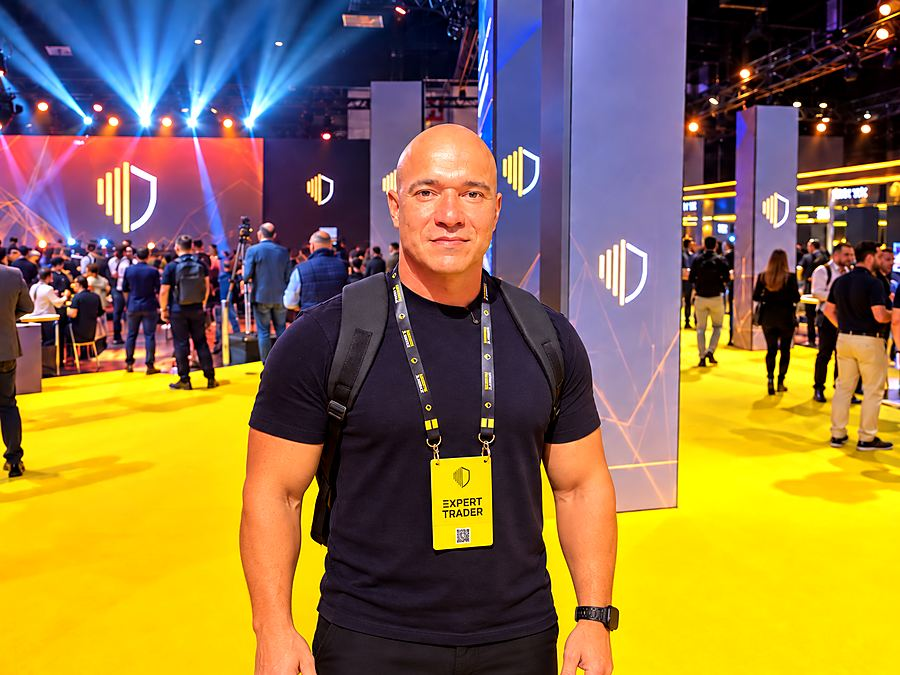
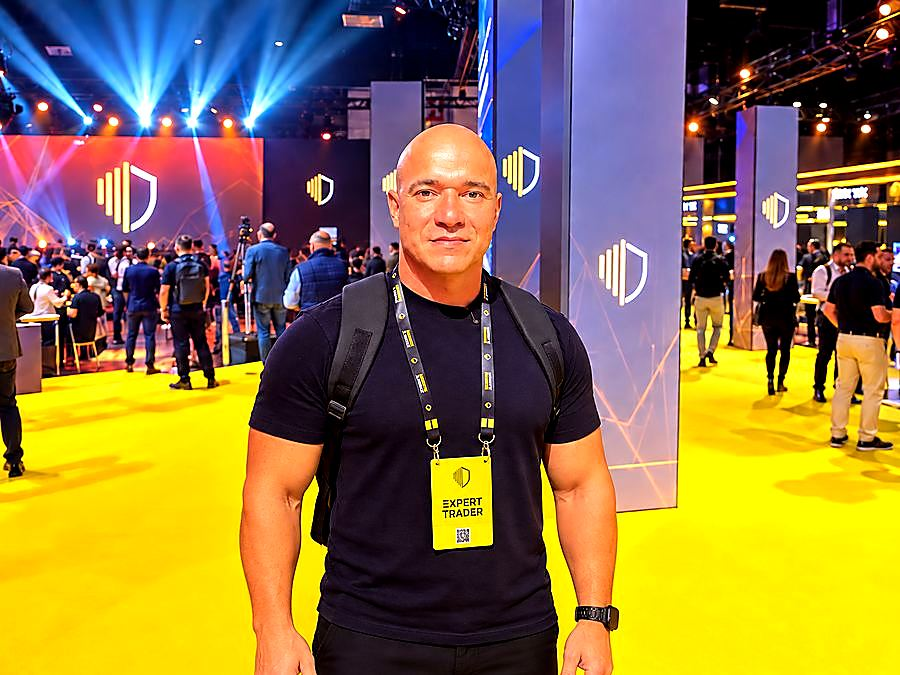
Repoe a foto da secao Sobre e impede que suma de novo
O arquivo site/fotos/sobre.png sumiu do disco. Como essa pasta nao e
versionada, o build seguinte caiu no placeholder dourado e foi publicado
assim. Reposta a partir de site/public/fotos/sobre.jpg, que estava commitada.

Para nao repetir: o build agora recusa gerar sem a foto, em vez de avisar
no fim e seguir. A valvula ACEITO_PLACEHOLDER=1 continua, para quem quiser
mesmo publicar sem ela. A revisao semanal passa a conferir que a pagina no
ar referencia a foto de verdade, e nao um placeholder embutido.

diff --git a/site/public/index.html b/site/public/index.html
@@ -598,7 +598,7 @@
   <section id="sobre">
     <div class="wrap about">
       <div class="about-photo rv">
[1 lines of base64/hex data omitted]
+        <div class="frame"><img src="/fotos/sobre.jpg" alt="Ramon Tibúrcio no evento Expert Trader XP." width="900" height="675" loading="lazy"></div>
         <div class="stamp"><small>Onde o título foi conquistado</small>Expert Trader XP · Arena</div>
       </div>
       <div class="about-copy rv">

diff --git a/site/build.py b/site/build.py
@@ -6,7 +6,7 @@ Fotos esperadas em site/fotos/ (qualquer um destes nomes, jpg/jpeg/png):
   b3.*     -> alternativa: foto no estande da B3      -> {{FOTO_B3}}
   hero.*   -> ultimo recurso, se as duas faltarem
   hl-resultados.*, hl-analises.*, hl-fechamento.* -> capas dos destaques do Instagram (opcionais)
-Se uma foto não existir, entra um placeholder dourado no lugar.
+Se a foto da seção Sobre não existir, o build para em vez de publicar um placeholder.
 """
 import re, base64, io, glob, os, sys
 from PIL import Image, ImageEnhance, ImageOps, ImageFilter
@@ -79,6 +79,17 @@ def main():
         alt_b3 = "Ramon Tibúrcio no evento Expert Trader XP."
 
     # (token, origem, nome publico, largura, proporcao, foco vertical, qualidade, rotulo)
+    # trava: sem a foto original o build publicaria o retangulo dourado no lugar do
+    # rosto do Ramon, e isso ja foi ao ar uma vez sem ninguem ver. A pasta site/fotos/
+    # nao e versionada, entao e justamente ela que some. Melhor recusar o build.
+    if not foto_sobre and not os.environ.get("ACEITO_PLACEHOLDER"):
+        raise SystemExit(
+            "ERRO: nao achei a foto da secao Sobre em site/fotos/ (sobre.*, b3.* ou hero.*)." + chr(10) +
+            "       Sem ela o site sai com o espaco reservado dourado no lugar da foto." + chr(10) +
+            "       Reponha o arquivo e rode de novo. Se for mesmo para publicar sem foto," + chr(10) +
+            "       rode com ACEITO_PLACEHOLDER=1."
+        )
+
     specs = [
         ("{{FOTO_B3}}", foto_sobre, "sobre.jpg", 900, (4, 3), 0.30, 78, "FOTO: EXPERT TRADER XP"),
     ]
@@ -154,8 +165,6 @@ def main():
     pub = os.path.join(pub_dir, "index.html")
     open(pub, "w", encoding="utf-8").write(full)
     print(f"Gerado: {pub} ({os.path.getsize(pub)//1024} KB)  [site completo para publicar]")
-    if not foto_sobre:
-        print("\nAVISO: nenhuma foto em site/fotos/ (sobre.*, b3.* ou hero.*). Placeholder usado.")
 
 
 if __name__ == "__main__":

diff --git a/site/verifica.py b/site/verifica.py
@@ -35,6 +35,10 @@ MARCOS = [
     ("destino da lista de espera", "/formResponse"),
     ("politica de privacidade", "privacidade.html"),
     ("aviso de risco", "Aviso de risco"),
+    # se o build rodar sem a foto original ele publica um placeholder dourado embutido
+    # no HTML, e esta referencia desaparece. Ja aconteceu uma vez.
+    ("foto da secao Sobre", 'src="/fotos/sobre.jpg"'),
+    ("assinatura da mundIA", "/img/mundia.png"),
 ]
 
 FORMULARIO = ("https://docs.google.com/forms/d/e/"

diff --git a/LEIA-ME.md b/LEIA-ME.md
@@ -23,7 +23,10 @@ cd "C:\Users\marce\PROJETO B3" && python site\build.py && git add -A && git comm
 
 - `site/index.template.html` — o site (edite aqui textos, cores e links).
 - `site/build.py` — gera o `site/index.html` final embutindo as fotos já tratadas.
-- `site/fotos/` — foto da seção "Sobre". O `build.py` procura nesta ordem:
+- `site/fotos/` — foto da seção "Sobre". **Esta pasta não vai para o repositório**
+  (está no `.gitignore`), então é a primeira coisa que some. Guarde cópia no Drive do
+  projeto. Se o arquivo sumir, o `build.py` agora recusa gerar em vez de publicar o
+  espaço reservado dourado no lugar do rosto. O `build.py` procura nesta ordem:
   - `sobre.*` → a foto em uso (hoje, o evento Expert Trader XP).
   - `b3.*` → se existir e não houver `sobre.*`, o rótulo vira "B3 · Bolsa do Brasil".
   - `hero.*` → último recurso.
